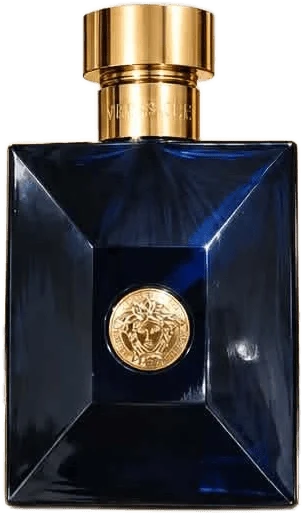
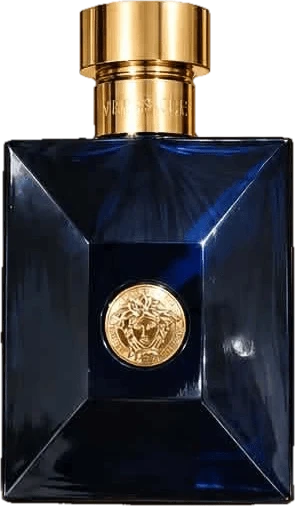
Integrate the Dylan Blue bottle into the Hero C night slide
The cut-out kept a light rim of the photo's backdrop and a 3px soft margin,
so the bottle looked pasted on navy. Regenerated with a 1px anti-aliased
edge recoloured from the bottle's interior and a fully opaque body. Slide 3
gets a per-bottle "contact" finish (no drop shadow, a soft shadow under the
bottle, a softer reflection) at 93% size; slides 1 and 2 are unchanged.
Hero copy also drops a leading stray "_" or "*" from company descriptions.

diff --git a/src/components/home/heroSlides.ts b/src/components/home/heroSlides.ts
@@ -29,6 +29,14 @@ export interface StageBottle {
   /** Which of the product's character words is set large behind the bottle. */
   word: number
   glints: Glint[]
+  /**
+   * Art direction for one bottle (default: the mock treatment).
+   * "contact": no shadow around the bottle, only a soft one under it, and a
+   * fainter, softer reflection, for a dark bottle on the night backdrop.
+   */
+  finish?: "contact"
+  /** Bottle size relative to the stage default, e.g. 0.93. */
+  scale?: number
 }
 
 /** Text size step for long names and ghost words (see HeroPerfume.css). */
@@ -75,6 +83,9 @@ export function nameGhost(name: string) {
   const core = words(name.replace(QUALIFIERS, " "))
   return (core.length ? core : words(name)).at(-1) ?? ""
 }
+
+/* Company copy sometimes opens with a stray "_" or "*" list marker. */
+const LEADING_MARKS = /^[\s_*•·#]+/
 
 const lengthOf = (text: string, medium: number, long: number): Length =>
   text.length > long ? "long" : text.length > medium ? "medium" : "short"
@@ -124,7 +135,7 @@ export function toHeroSlide(
     title: product.name,
     titleLength: lengthOf(product.name, 16, 28),
     textLang,
-    description: product.story?.description || product.description || "",
+    description: (product.story?.description || product.description || "").replace(LEADING_MARKS, ""),
     descriptionLang:
       product.contentLocale && product.contentLocale.description !== pageLocale
         ? product.contentLocale.description

diff --git a/src/components/home/HeroPerfume.css b/src/components/home/HeroPerfume.css
@@ -195,7 +195,9 @@
 /* Anchor: fixed size, centred on the stage. The image is never mirrored. */
 .hero-stage__object {
   aspect-ratio: var(--aspect);
-  height: min(var(--object-height), var(--object-max-width) / var(--aspect));
+  height: calc(
+    min(var(--object-height), var(--object-max-width) / var(--aspect)) * var(--scale, 1)
+  );
   left: 50%;
   position: absolute;
   top: var(--object-y);
@@ -315,6 +317,32 @@
   transform: scaleY(-1);
   user-select: none;
   width: 100%;
+}
+
+/*
+ * "contact" finish (set per bottle): nothing around the bottle, a tight soft
+ * shadow where it would meet the floor, a fainter and softer reflection.
+ */
+.hero-stage__object[data-finish="contact"] .hero-stage__art {
+  filter: none;
+}
+
+.hero-stage__object[data-finish="contact"] .hero-stage__shadow {
+  background: radial-gradient(
+    closest-side,
+    rgba(var(--shadow), 0.42),
+    rgba(var(--shadow), 0.14) 60%,
+    transparent
+  );
+  height: 4%;
+  inset-inline: 8%;
+  top: 100.5%;
+}
+
+.hero-stage__object[data-finish="contact"] .hero-stage__reflection {
+  filter: blur(4px);
+  -webkit-mask-image: linear-gradient(0deg, rgba(0, 0, 0, 0.22), transparent 28%);
+  mask-image: linear-gradient(0deg, rgba(0, 0, 0, 0.22), transparent 28%);
 }
 
 /* A specular sweep, masked to the bottle's own pixels: once on arrival, then now and again. */

diff --git a/src/components/home/HeroPerfume.tsx b/src/components/home/HeroPerfume.tsx
@@ -77,7 +77,14 @@ const MOCK_BOTTLES: StageBottle[] = [
 const LIVE_BOTTLES: StageBottle[] = [
   { productId: "14097", tone: "blush", word: 0, glints: [] },
   { productId: "14075", tone: "gold", word: 0, glints: [] },
-  { productId: "13898", tone: "night", word: 0, glints: [] },
+  {
+    productId: "13898",
+    tone: "night",
+    word: 0,
+    glints: [],
+    finish: "contact",
+    scale: 0.93,
+  },
 ]
 
 const BOTTLES = productSource === "live" ? LIVE_BOTTLES : MOCK_BOTTLES
@@ -211,10 +218,12 @@ export default function HeroPerfume({ content }: { content: HeroContent }) {
               className="hero-stage__object"
               data-state={stateOf(index)}
               data-tone={slide.tone}
+              data-finish={slide.finish}
               style={
                 {
                   "--art": `url("${src}")`,
                   "--aspect": slide.aspect,
+                  "--scale": slide.scale,
                 } as CSSProperties
               }
             >

diff --git a/src/config/heroCutouts.ts b/src/config/heroCutouts.ts
@@ -25,5 +25,5 @@ export const LIVE_HERO_CUTOUTS: Record<number, HeroCutout> = {
   // Dior J'adore Eau de Parfum
   14075: cutout(14075, 346, 800),
   // Versace Dylan Blue Pour Homme
-  13898: cutout(13898, 303, 514),
+  13898: cutout(13898, 295, 506),
 }
